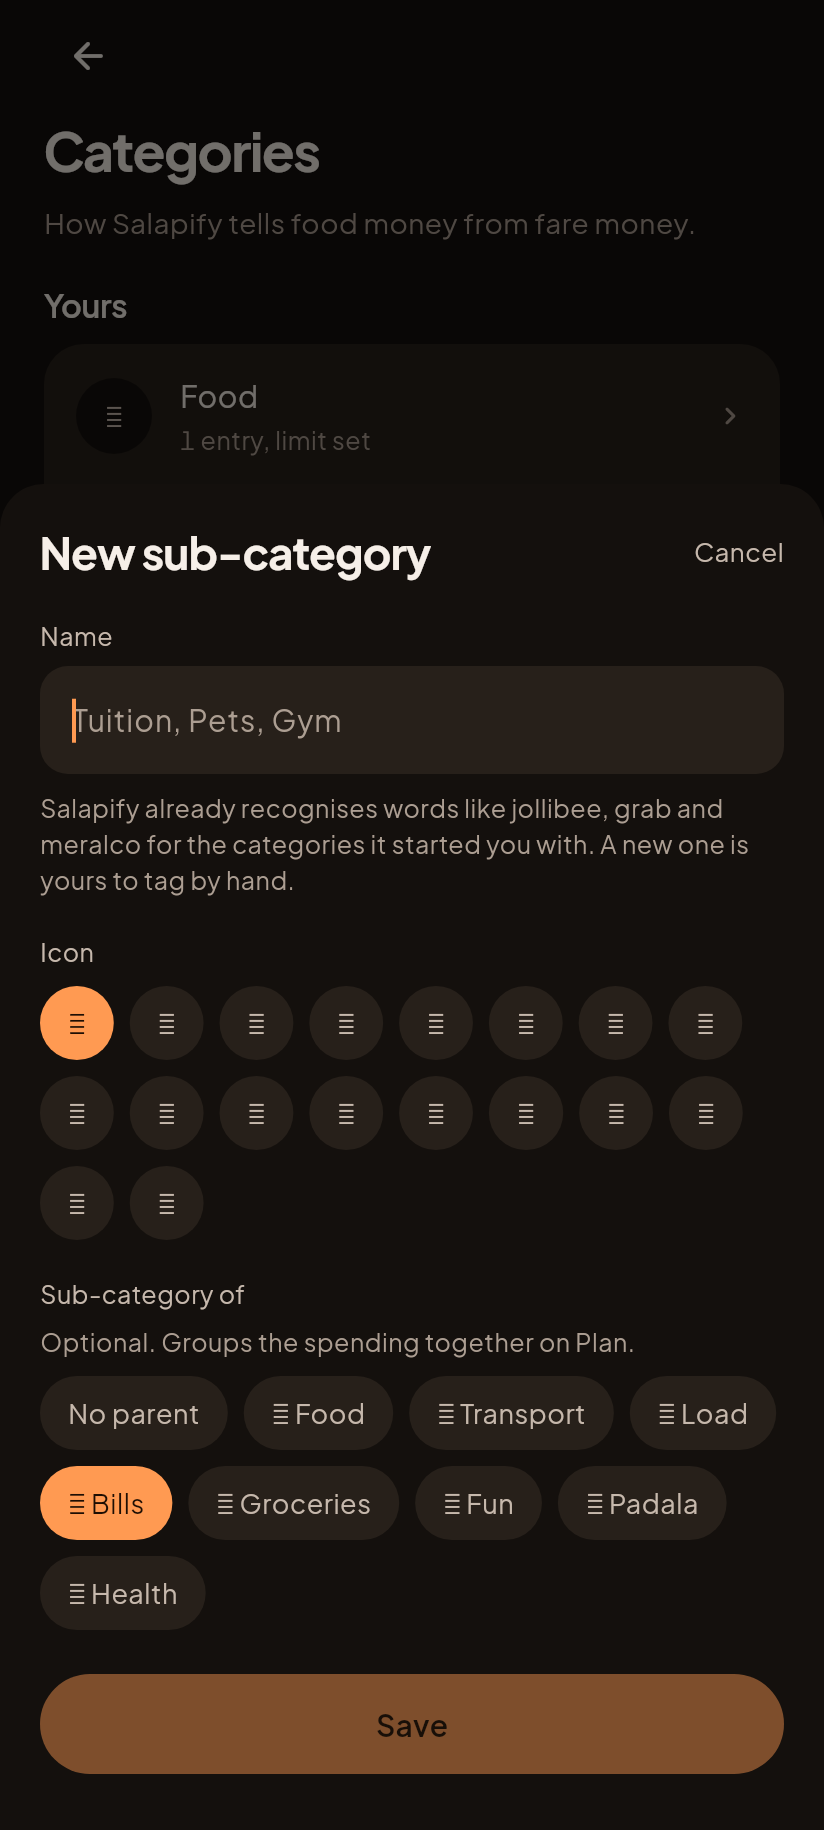
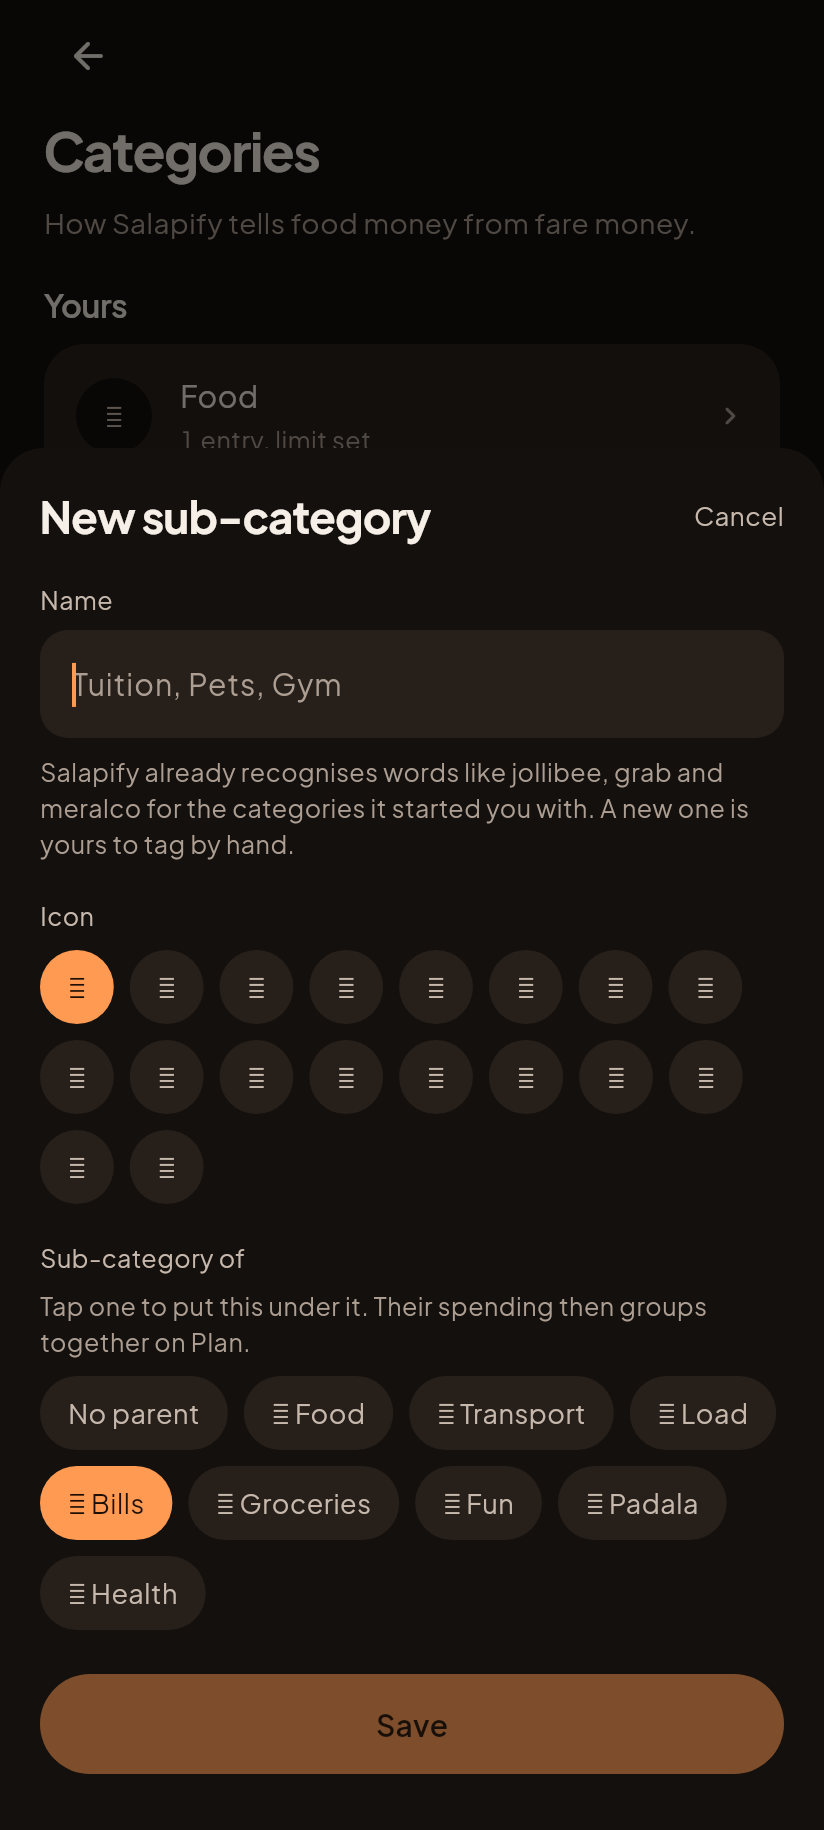
Say what to tap: the sub-category picker described an effect, not an action
Founder, looking at the New category sheet on their phone with the
sub-category picker visible on it: "no add sub category here".

The picker was right there. Tapping a chip on that sheet IS how you create a
sub-category, and the line above it read "Optional. Groups the spending
together on Plan", which describes what happens afterwards and leaves the
reader to work out that the chips are the control they were hunting for. A
beginner looking for a way to do something does not read a description of
its effect as an instruction.

Now: "Tap one to put this under it. Their spending then groups together on
Plan." The act first, the consequence second.

Nothing else moved. The two routes both already worked and both still do:
pick a parent chip while creating a category, or open an existing category
and use "Add a sub-category" to start a new one already under it.

Claude-Session: https://claude.ai/code/session_01Y26XHvujZQiLAFQywM3Pco

diff --git a/app/lib/features/categories/categories_screen.dart b/app/lib/features/categories/categories_screen.dart
@@ -440,9 +440,15 @@ class _CategorySheetState extends State<_CategorySheet> {
               label,
               const SizedBox(height: 6),
               Text(
-                // Ties the field to the one screen that already shows the
-                // effect, so picking one is not a leap of faith into nothing.
-                'Optional. Groups the spending together on Plan.',
+                // SAYS WHAT TO TAP, not what the field is for. The founder
+                // opened this exact sheet looking for a way to make a
+                // sub-category, with the picker that makes one right in front
+                // of them, and reported there was no option to do it. The old
+                // line ("Optional. Groups the spending together on Plan.")
+                // described an effect and left the reader to work out that
+                // tapping a chip is the act of creating a sub-category.
+                'Tap one to put this under it. Their spending then groups '
+                'together on Plan.',
                 style: TypeScale.caption(skin.text3),
               ),
               const SizedBox(height: 8),
